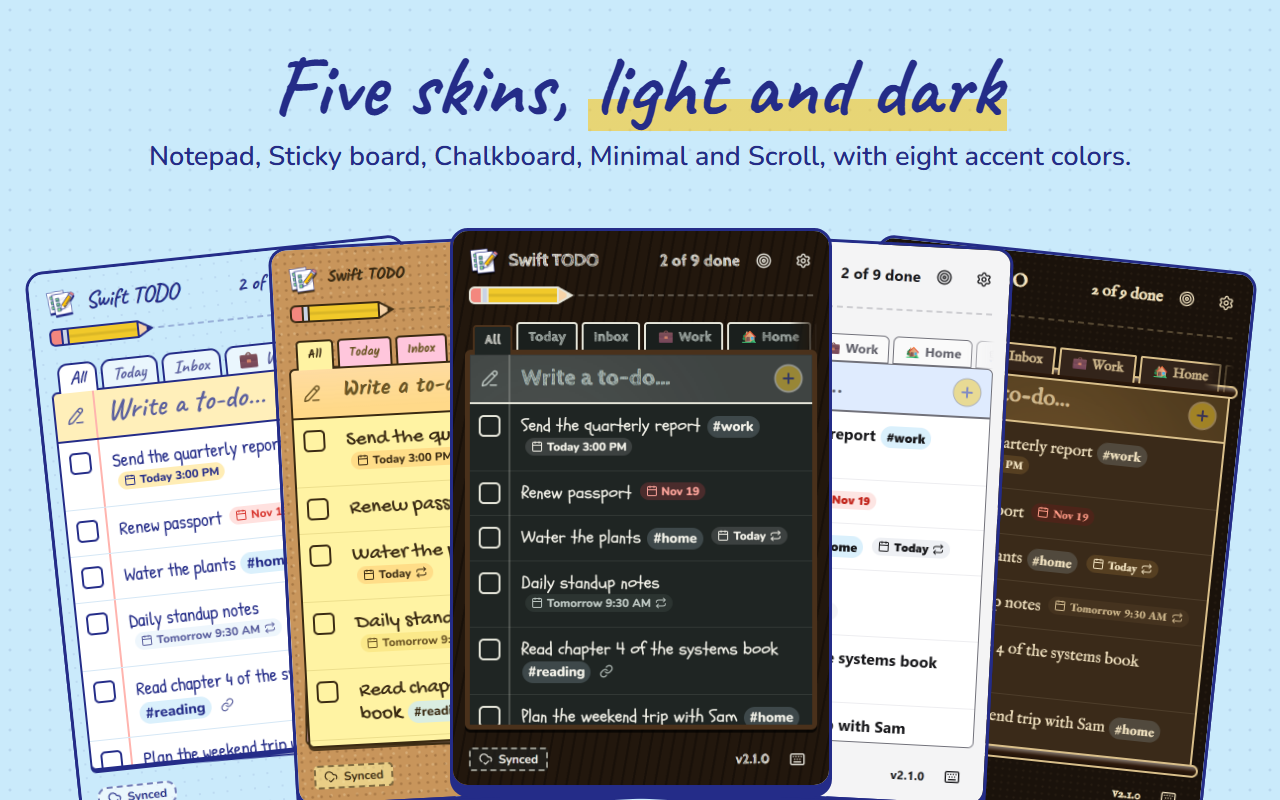
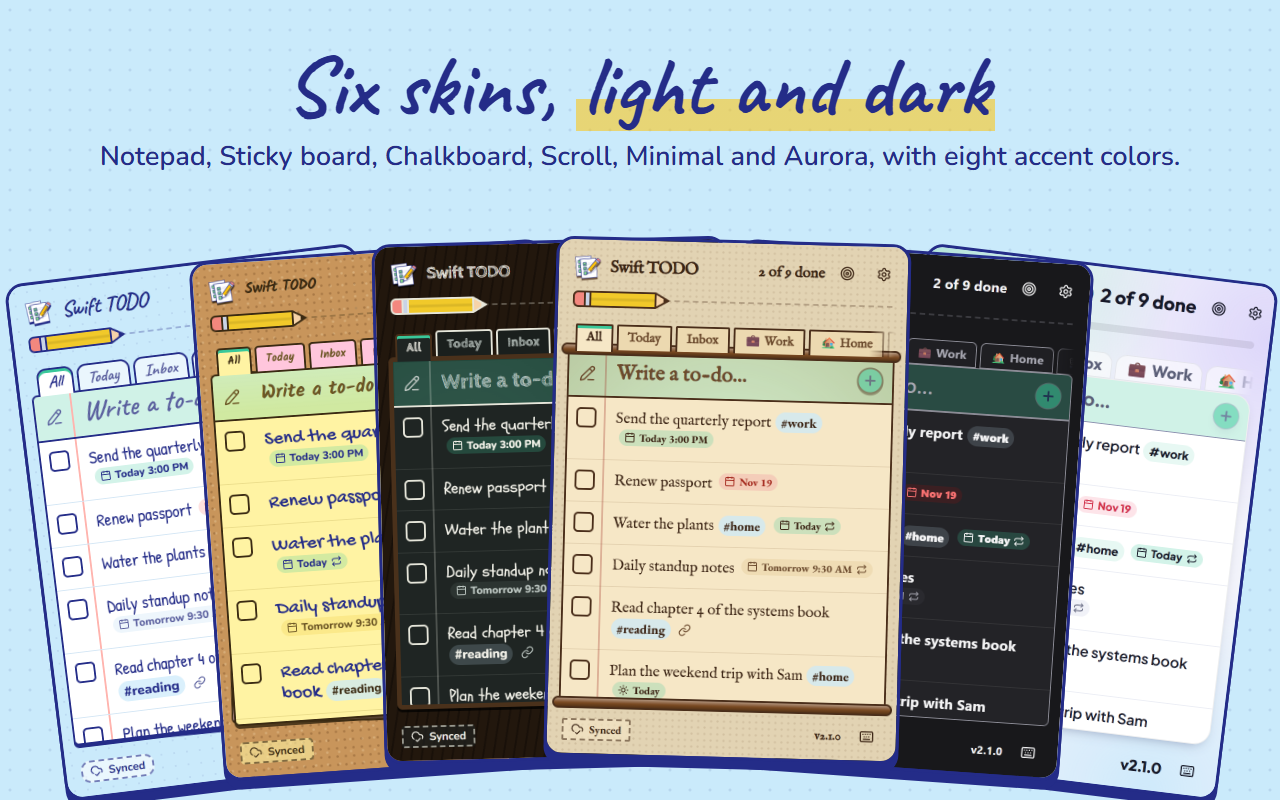
docs: six skins in the README, store listing, showcase, store images and website, and the 2.1.0 changelog brought up to date

diff --git a/site/src/components/Skins.svelte b/site/src/components/Skins.svelte
@@ -5,6 +5,8 @@
   import SunIcon from "@lucide/svelte/icons/sun";
 
   import notepadLight from "../../../showcase/overview.png";
+  import auroraDark from "../../../showcase/skin-aurora-dark.png";
+  import auroraLight from "../../../showcase/skin-aurora-light.png";
   import chalkDark from "../../../showcase/skin-chalk-dark.png";
   import chalkLight from "../../../showcase/skin-chalk-light.png";
   import minimalDark from "../../../showcase/skin-minimal-dark.png";
@@ -23,8 +25,9 @@
     { id: "notepad", name: "Notepad", about: "Stacked sheets, navy ink and a yellow pencil.", light: notepadLight, dark: notepadDark },
     { id: "sticky", name: "Sticky board", about: "A sticky note pinned to a cork board.", light: stickyLight, dark: stickyDark },
     { id: "chalk", name: "Chalkboard", about: "Chalk on a green board, in a wooden frame.", light: chalkLight, dark: chalkDark },
-    { id: "minimal", name: "Minimal", about: "Flat and calm, with your system's font.", light: minimalLight, dark: minimalDark },
     { id: "scroll", name: "Scroll", about: "Parchment between wooden rollers, in ink.", light: scrollLight, dark: scrollDark },
+    { id: "minimal", name: "Minimal", about: "Flat and calm, with your system's font.", light: minimalLight, dark: minimalDark },
+    { id: "aurora", name: "Aurora", about: "Clean and modern, over a glow in your accent color.", light: auroraLight, dark: auroraDark },
   ] as const;
 
   const ACCENTS = [
@@ -59,7 +62,7 @@
 
 <section id="skins" class="section skins" aria-labelledby="skins-title">
   <div class="page">
-    <h2 id="skins-title" class="title">Five skins, <span class="marker">light and dark</span></h2>
+    <h2 id="skins-title" class="title">Six skins, <span class="marker">light and dark</span></h2>
     <p class="lead">Pick the desk your list sits on. The theme follows your system, or whichever you choose.</p>
 
     <div class="carousel" data-reveal>

diff --git a/tests/branding/branding.spec.ts b/tests/branding/branding.spec.ts
@@ -184,14 +184,15 @@ const IMAGES: IImage[] = [
     height: 800,
     html: `
       <div style="position:absolute;top:44px;left:0;right:0;text-align:center">
-        <h1 class="hand" style="font-size:84px">Five skins, <span class="underline">light and dark</span></h1>
-        <p style="font-size:27px;font-weight:600;margin-top:10px">Notepad, Sticky board, Chalkboard, Minimal and Scroll, with eight accent colors.</p>
+        <h1 class="hand" style="font-size:84px">Six skins, <span class="underline">light and dark</span></h1>
+        <p style="font-size:27px;font-weight:600;margin-top:10px">Notepad, Sticky board, Chalkboard, Scroll, Minimal and Aurora, with eight accent colors.</p>
       </div>
-      ${popup("overview", { x: 52, y: 252, h: 560, r: -6, z: 1 })}
-      ${popup("skin-sticky-light", { x: 282, y: 238, h: 560, r: -3, z: 2 })}
-      ${popup("skin-chalk-dark", { x: 450, y: 228, h: 560, r: 0, z: 3 })}
-      ${popup("skin-minimal-light", { x: 618, y: 238, h: 560, r: 3, z: 2 })}
-      ${popup("skin-scroll-dark", { x: 848, y: 252, h: 560, r: 6, z: 1 })}`,
+      ${popup("overview", { x: 34, y: 262, h: 520, r: -7, z: 1 })}
+      ${popup("skin-sticky-light", { x: 206, y: 250, h: 520, r: -4, z: 2 })}
+      ${popup("skin-chalk-dark", { x: 378, y: 240, h: 520, r: -1.5, z: 3 })}
+      ${popup("skin-scroll-light", { x: 550, y: 240, h: 520, r: 1.5, z: 3 })}
+      ${popup("skin-minimal-dark", { x: 722, y: 250, h: 520, r: 4, z: 2 })}
+      ${popup("skin-aurora-light", { x: 894, y: 262, h: 520, r: 7, z: 1 })}`,
   },
   {
     file: "screenshots/5-lists-sync.png",

diff --git a/tests/site/site.spec.ts b/tests/site/site.spec.ts
@@ -36,7 +36,7 @@ test("reads fine without JavaScript, as rendered at build time", async ({ browse
   await page.goto("/");
   await expect(page.getByRole("heading", { level: 1 })).toHaveText("Your to-dos, one click away.");
 
-  for (const name of ["Thirty seconds, start to done", "Just type it", "Small list, no small features", "Five skins, light and dark", "Get Swift TODO", "Questions, answered"]) {
+  for (const name of ["Thirty seconds, start to done", "Just type it", "Small list, no small features", "Six skins, light and dark", "Get Swift TODO", "Questions, answered"]) {
     await expect(page.getByRole("heading", { level: 2, name })).toBeVisible();
   }
 
@@ -131,7 +131,7 @@ test("shows each skin, light and dark", async ({ page }) => {
   await expect(skins.locator("img[src*='skin-chalk-dark']")).toHaveCount(1);
 
   await skins.getByRole("button", { name: "Next skin" }).click();
-  await expect(skins.getByRole("radio", { name: "Minimal" })).toBeChecked();
+  await expect(skins.getByRole("radio", { name: "Scroll" })).toBeChecked();
 });
 
 test("offers the visitor's browser first", async ({ page }) => {

diff --git a/tests/e2e/view.spec.ts b/tests/e2e/view.spec.ts
@@ -66,6 +66,9 @@ test.describe("view in full", () => {
   });
 
   test("edits the details too: date and time, repeat, list, link and Today, saved together", async ({ popup }) => {
+    // A long walk through every field.
+    test.slow();
+
     await popup.getByRole("button", { name: "New list" }).click();
     await popup.keyboard.type("Work");
     await popup.keyboard.press("Enter");
@@ -110,6 +113,7 @@ test.describe("view in full", () => {
     await expect(dialog.getByRole("button", { name: "example.com" })).toBeVisible();
     await expect(dialog.getByText("Added to Today")).toBeVisible();
     await popup.keyboard.press("Escape");
+    await expect(dialog).toBeHidden();
 
     await expect(invoice).toHaveAccessibleName(/9:30.*repeats Every month.*added to Today.*links to example\.com/);
 

diff --git a/src/assets/skins/decor.css b/src/assets/skins/decor.css
@@ -95,6 +95,10 @@
   border-width: 1px;
 }
 
+[data-skin="aurora"] .border-b-2 {
+  border-bottom-width: 1px;
+}
+
 [data-skin="aurora"] [data-sheet] {
   border-color: var(--hairline);
   border-radius: 18px;

diff --git a/CHANGELOG.md b/CHANGELOG.md
@@ -18,9 +18,19 @@ The format is based on [Keep a Changelog](https://keepachangelog.com/en/1.1.0/),
 - **Export and import**: a JSON backup that can be imported again (adding to or replacing your to-dos), Markdown and CSV exports, and copying the current list as text.
 - **Today**: a view of what's due or overdue, plus anything added to it from the row menu.
 - **Focus mode**: one to-do at a time, with Done and Skip, and a focus timer that keeps running with the popup closed, counting down on the toolbar badge.
-- **Skins**: Notepad, Sticky board, Chalkboard, Minimal and Scroll, each in light and dark, with eight accent colors and a theme setting (system, light or dark).
+- **Skins**: Notepad, Sticky board, Chalkboard, Scroll, Minimal and Aurora, each in light and dark, with eight accent colors and a theme setting (system, light or dark). To-dos are written in each skin's own hand, and the accent leads highlights, hover, focus and selection.
+- **View in full** (⋯ menu, a row button, or <kbd>V</kbd>): the whole to-do with nothing covering it, every detail, Copy, and an edit form for its text, date and time, repeat, list, link, Today, pin and hiding.
+- **Pins**: pin a to-do to the top of its list (⋯ menu or <kbd>P</kbd>).
+- **Hidden text**: hide a to-do's text, for passwords and secrets. It's scribbled over in the skin's style everywhere, notifications included, until revealed.
+- **Links**: give any to-do a link, and open it from the menu.
+- **Repeat history**: each check-off of a repeating to-do is kept (the latest 30) and shown in its full view; it moves to the bottom when checked off, with Undo.
+- **Copy** a to-do's text from its menu.
 - **Settings**, in the popup: appearance, lists, reminders, focus, your data, and about.
-- A row menu (⋯, or <kbd>M</kbd> on a row) for scheduling, repeating, moving, Today and sync.
+- A row menu (⋯, or <kbd>M</kbd> on a row) for viewing, copying, pinning, scheduling, repeating, hiding, links, moving, Today and sync.
+- Focus mode says so with a banner and a way back, remembers skipped to-dos, and takes a custom timer length.
+- Every icon-only button has a tooltip.
+- After "Add to Swift TODO", a short note on the page confirms it.
+- The app's own dropdowns, date and time pickers, checkboxes and number steppers, in place of the browser's.
 - The version shows at the bottom of the popup, linking to its release notes.
 
 ### Fixed

diff --git a/showcase/showcase.md b/showcase/showcase.md
@@ -78,15 +78,19 @@ Notifications are optional; the browser asks for permission the first time you t
 
 ## Skins
 
-Five skins, each in light and dark, with eight accent colors. The theme follows your system unless you pick one.
+Six skins, each in light and dark, with eight accent colors that lead every highlight, hover and focus. To-dos are written in each skin's own hand: pencil, marker, chalk, ink, or plain type. The theme follows your system unless you pick one.
 
 | Sticky board | Chalkboard |
 | :---: | :---: |
 | <img src="./skin-sticky-light.png" width="260" alt="Sticky board skin, light: a yellow sticky note on a cork board"> <img src="./skin-sticky-dark.png" width="260" alt="Sticky board skin, dark"> | <img src="./skin-chalk-light.png" width="260" alt="Chalkboard skin, light: a green board in a wooden frame"> <img src="./skin-chalk-dark.png" width="260" alt="Chalkboard skin, dark"> |
 
-| Minimal | Scroll |
+| Scroll | Minimal |
 | :---: | :---: |
-| <img src="./skin-minimal-light.png" width="260" alt="Minimal skin, light: flat, with the system font"> <img src="./skin-minimal-dark.png" width="260" alt="Minimal skin, dark"> | <img src="./skin-scroll-light.png" width="260" alt="Scroll skin, light: parchment between wooden rollers, with a serif font"> <img src="./skin-scroll-dark.png" width="260" alt="Scroll skin, dark"> |
+| <img src="./skin-scroll-light.png" width="260" alt="Scroll skin, light: parchment between wooden rollers, with a serif font"> <img src="./skin-scroll-dark.png" width="260" alt="Scroll skin, dark"> | <img src="./skin-minimal-light.png" width="260" alt="Minimal skin, light: flat, with the system font"> <img src="./skin-minimal-dark.png" width="260" alt="Minimal skin, dark"> |
+
+| Aurora | |
+| :---: | :---: |
+| <img src="./skin-aurora-light.png" width="260" alt="Aurora skin, light: a clean rounded card over a soft glow in the accent color"> <img src="./skin-aurora-dark.png" width="260" alt="Aurora skin, dark: the glow on a night-sky desk"> | |
 
 ## Settings
 

diff --git a/README.md b/README.md
@@ -23,7 +23,7 @@ Swift TODO is a browser extension for jotting down things to do on the fly. Clic
 - A Today view, and a focus mode with a timer, one to-do at a time.
 - Add selected text from any page with a right-click, linked back to the page.
 - Export to JSON, Markdown or CSV, and import a backup.
-- Five skins (Notepad, Sticky board, Chalkboard, Minimal and Scroll), each in light and dark, with eight accent colors.
+- Six skins (Notepad, Sticky board, Chalkboard, Scroll, Minimal and Aurora), each in light and dark, with eight accent colors, and to-dos written in each skin's own hand.
 - Synced across your devices through your browser account, with no sign-up and no server of ours.
 - No limit on the number of to-dos. Browser sync holds a few hundred; past that, new to-dos are kept on the device, and you choose which ones stay synced. When sync isn't available, everything is kept on the device.
 - Fully usable from the keyboard and with screen readers.

diff --git a/docs/store-listing.md b/docs/store-listing.md
@@ -23,7 +23,7 @@ Chrome allows 132 characters, AMO 250.
 > • A Today view, and a focus mode with a timer.
 > • Right-click selected text on any page to add it, with a link back.
 > • Export to JSON, Markdown or CSV, and import a backup.
-> • Five skins (Notepad, Sticky board, Chalkboard, Minimal, Scroll), light and dark, with accent colors.
+> • Six skins (Notepad, Sticky board, Chalkboard, Scroll, Minimal, Aurora), light and dark, with accent colors.
 > • Undo a delete with one click, or Ctrl+Z.
 > • Synced across your devices through your browser account. No sign-up, no servers, no tracking.
 > • No limit on the number of to-dos. Browser sync holds a few hundred; past that, new to-dos stay on your device until you make room, and you choose which ones stay synced.
